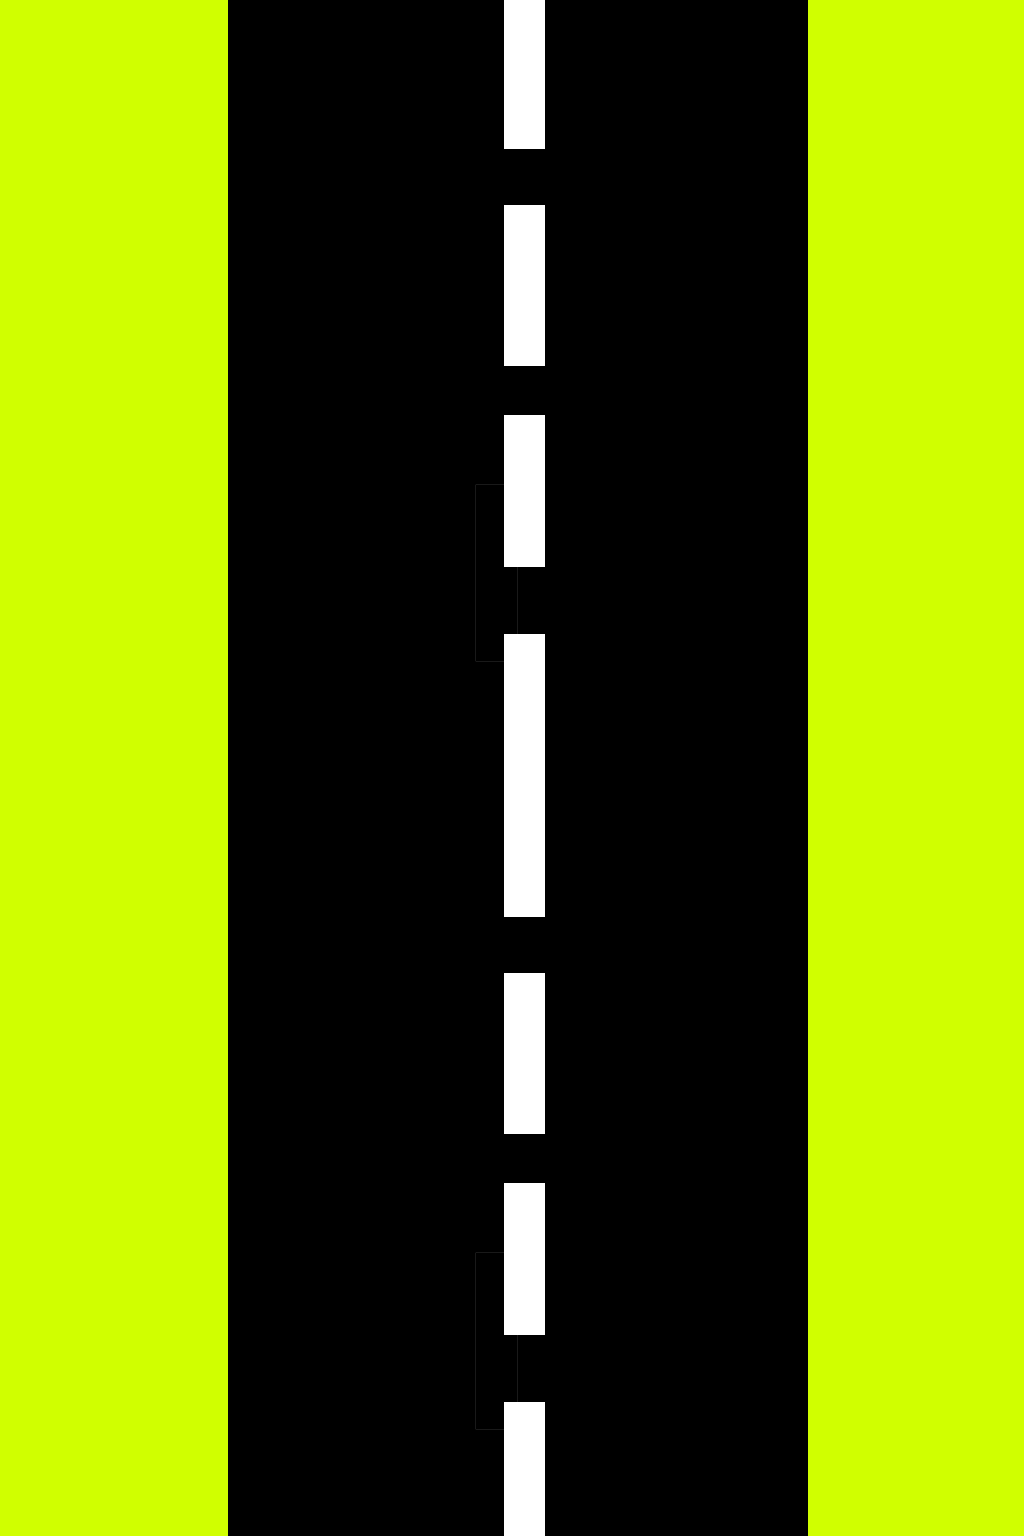
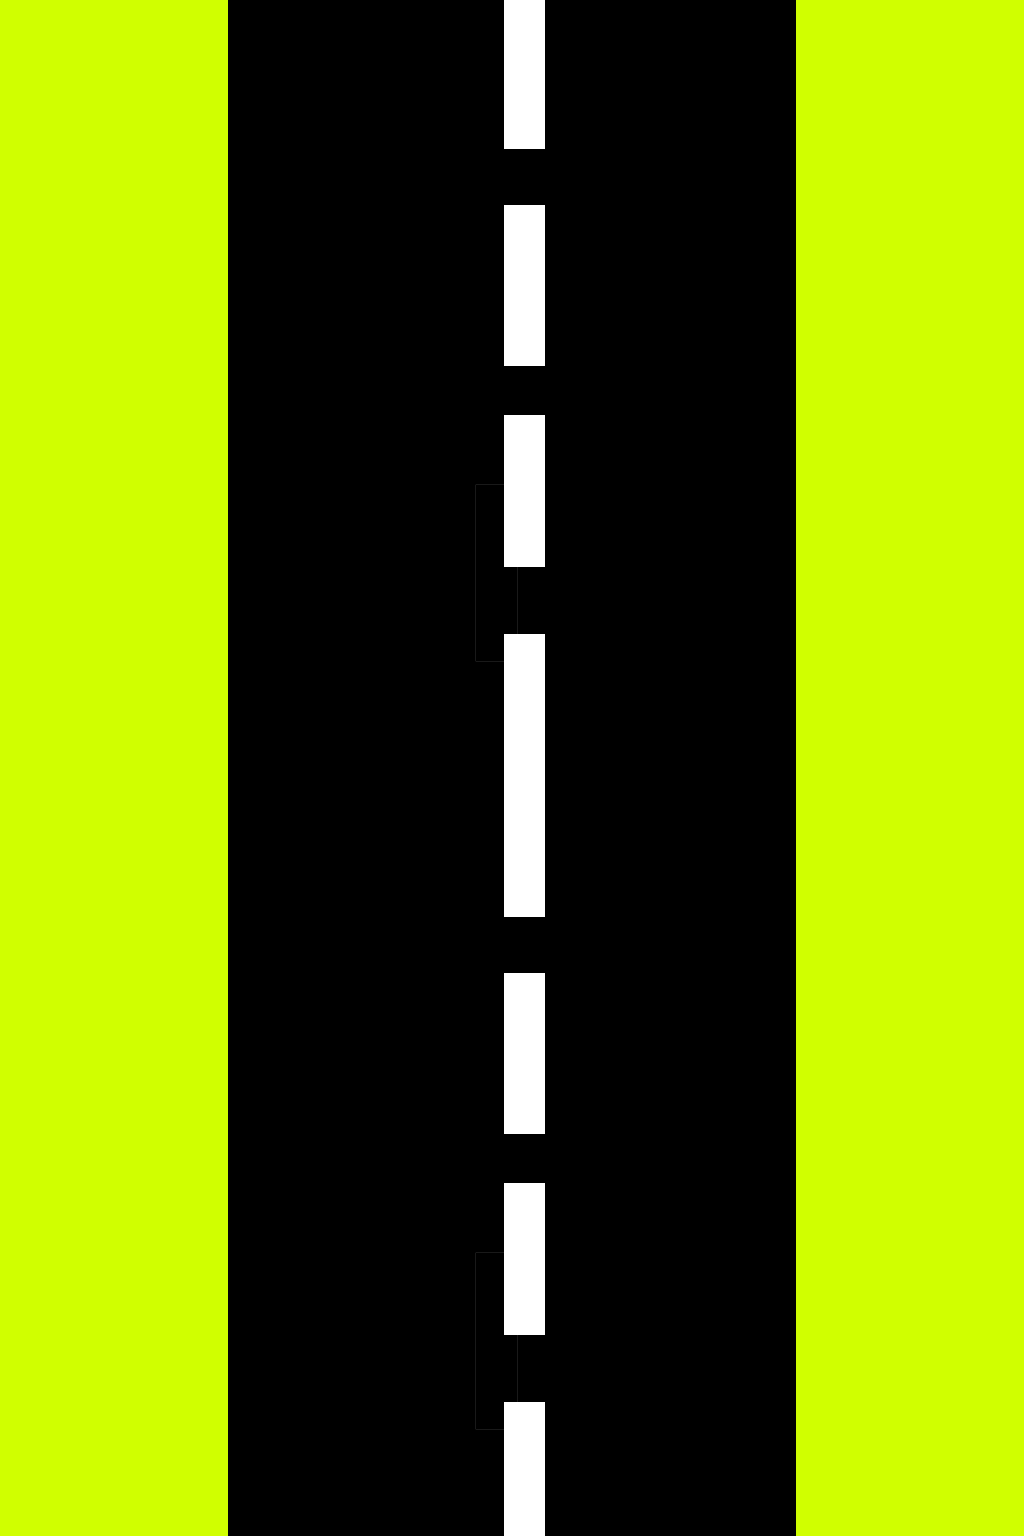
added scrolling system
added road class
created scrolling system and scroll speed
added new sprites for classes

Changed region(s): [[0.75, 0.0, 0.8125, 1.0]]

diff --git a/main.py b/main.py
@@ -18,6 +18,10 @@ KEY = (1,1,1) # invisible color
 
 done = False
 
+distance = 0
+
+scroll_speed = 0
+
 clock = pygame.time.Clock()
 
 # general function definitions
@@ -36,7 +40,19 @@ class SpriteSheet(object):
         image.blit(self.sprite_sheet, (0, 0), (x, y, width, height))
         image.set_colorkey(KEY)
         return image
+def background_check():
+    for background in all_backgrounds_list():
+        if background.rect.y >= 0:
+            background2 = Background(1)
+            all_backgrounds_list.remove(background)
+            all_sprites_list.remove(background)
 
+def road_check():
+    for road in all_roads_list():
+        if road.rect.y >= 0:
+            road2 = Road(1)
+            all_roads_list.remove(road)
+            all_sprites_list.remove(road)
 # class definitions
 
 class Player(pygame.sprite.Sprite):
@@ -44,7 +60,9 @@ class Player(pygame.sprite.Sprite):
         pygame.sprite.Sprite.__init__(self)
         self.image = pygame.Surface([width, height])
         player = SpriteSheet("spritesheet.png")
-        self.image = player.get_image(0,0,80,100)
+        self.width = 80
+        self.height = 100
+        self.image = player.get_image(0,0,self.width,self.height)
         self.rect = self.image.get_rect()
         self.xspeed = 0
         self.yspeed = 0
@@ -78,23 +96,50 @@ class Player(pygame.sprite.Sprite):
             self.xspeed = self.speed
 
         # location update
-
+        
         self.rect.x += self.xspeed
         self.rect.y += self.yspeed
+
+        # check for screen borders
+
+        if self.rect.x + self.width >= screen_width - 228:
+            self.rect.x = screen_width - self.width - 228
+        if self.rect.x <= 228:
+            self.rect.x = 228
+        
+        if self.rect.y + self.height >= screen_height:
+            self.rect.y = screen_height - self.height
+        if self.rect.y <= 0:
+            self.rect.y = 0
 
 class Background(pygame.sprite.Sprite):
     def __init__(self, type):
         pygame.sprite.Sprite.__init__(self)
         self.image = pygame.Surface([1024, 1536])
         if type == 1:
-            background = SpriteSheet("background.png")
+            background = SpriteSheet("grass1.png")
         self.image = background.get_image(0,0,1024,1536)
         self.rect = self.image.get_rect()
     def update(self):
-        self.rect.y += 1
+        global scroll_speed
+        self.rect.y += scroll_speed
         if self.rect.y > 0:
             self.rect.y = -768
-        
+
+class Road(pygame.sprite.Sprite):
+    def __init__(self,type):
+        pygame.sprite.Sprite.__init__(self)
+        self.image = pygame.Surface([568, 1536])
+        if type == 1:
+            background = SpriteSheet("road.png")
+            self.image = background.get_image(0,0,568,1536)
+        self.rect = self.image.get_rect()
+    def update(self):
+        global scroll_speed
+        self.rect.y += scroll_speed
+        if self.rect.y > 0:
+            self.rect.y = -768
+
 # screen definition
 
 screen_width = 1024
@@ -107,6 +152,7 @@ pygame.display.set_caption("Action Fighter Game")
 all_sprites_list = pygame.sprite.Group()
 all_backgrounds_list = pygame.sprite.Group()
 all_players_list = pygame.sprite.Group()
+all_roads_list = pygame.sprite.Group()
 
 # layer group definitions
 
@@ -142,6 +188,15 @@ all_backgrounds_list.add(background)
 layer1.add(background)
 background.rect.x = 0
 background.rect.y = -768
+
+## road definition
+
+road = Road(1)
+all_sprites_list.add(road)
+all_roads_list.add(road)
+layer2.add(road)
+road.rect.x = 228
+road.rect.y = 0
 
 # function definitions
 
@@ -182,6 +237,13 @@ while not done:
     player.update()
 
     background.update()
+
+    road.update()
+
+    # scroll speed update
+
+    if scroll_speed < 10:
+            scroll_speed += 0.05
 
     # screen drawing
 
